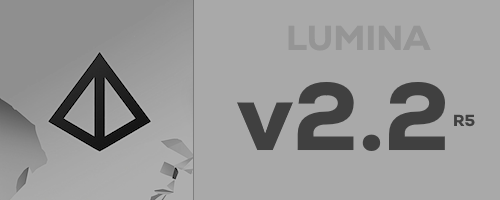
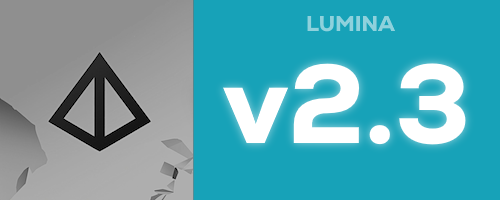
v2.3 version update.

diff --git a/XML/GlobalPaths.cs b/XML/GlobalPaths.cs
@@ -87,7 +87,7 @@ namespace Lumina.XML
 
             private static string GetVersion()
             {
-                bool isExperimental = true;
+                bool isExperimental = false;
 
                 if (isExperimental)
                 {
@@ -95,7 +95,7 @@ namespace Lumina.XML
                 }
                 else
                 {
-                    return "v2.2R6";
+                    return "v2.3";
                 }
             }
         
